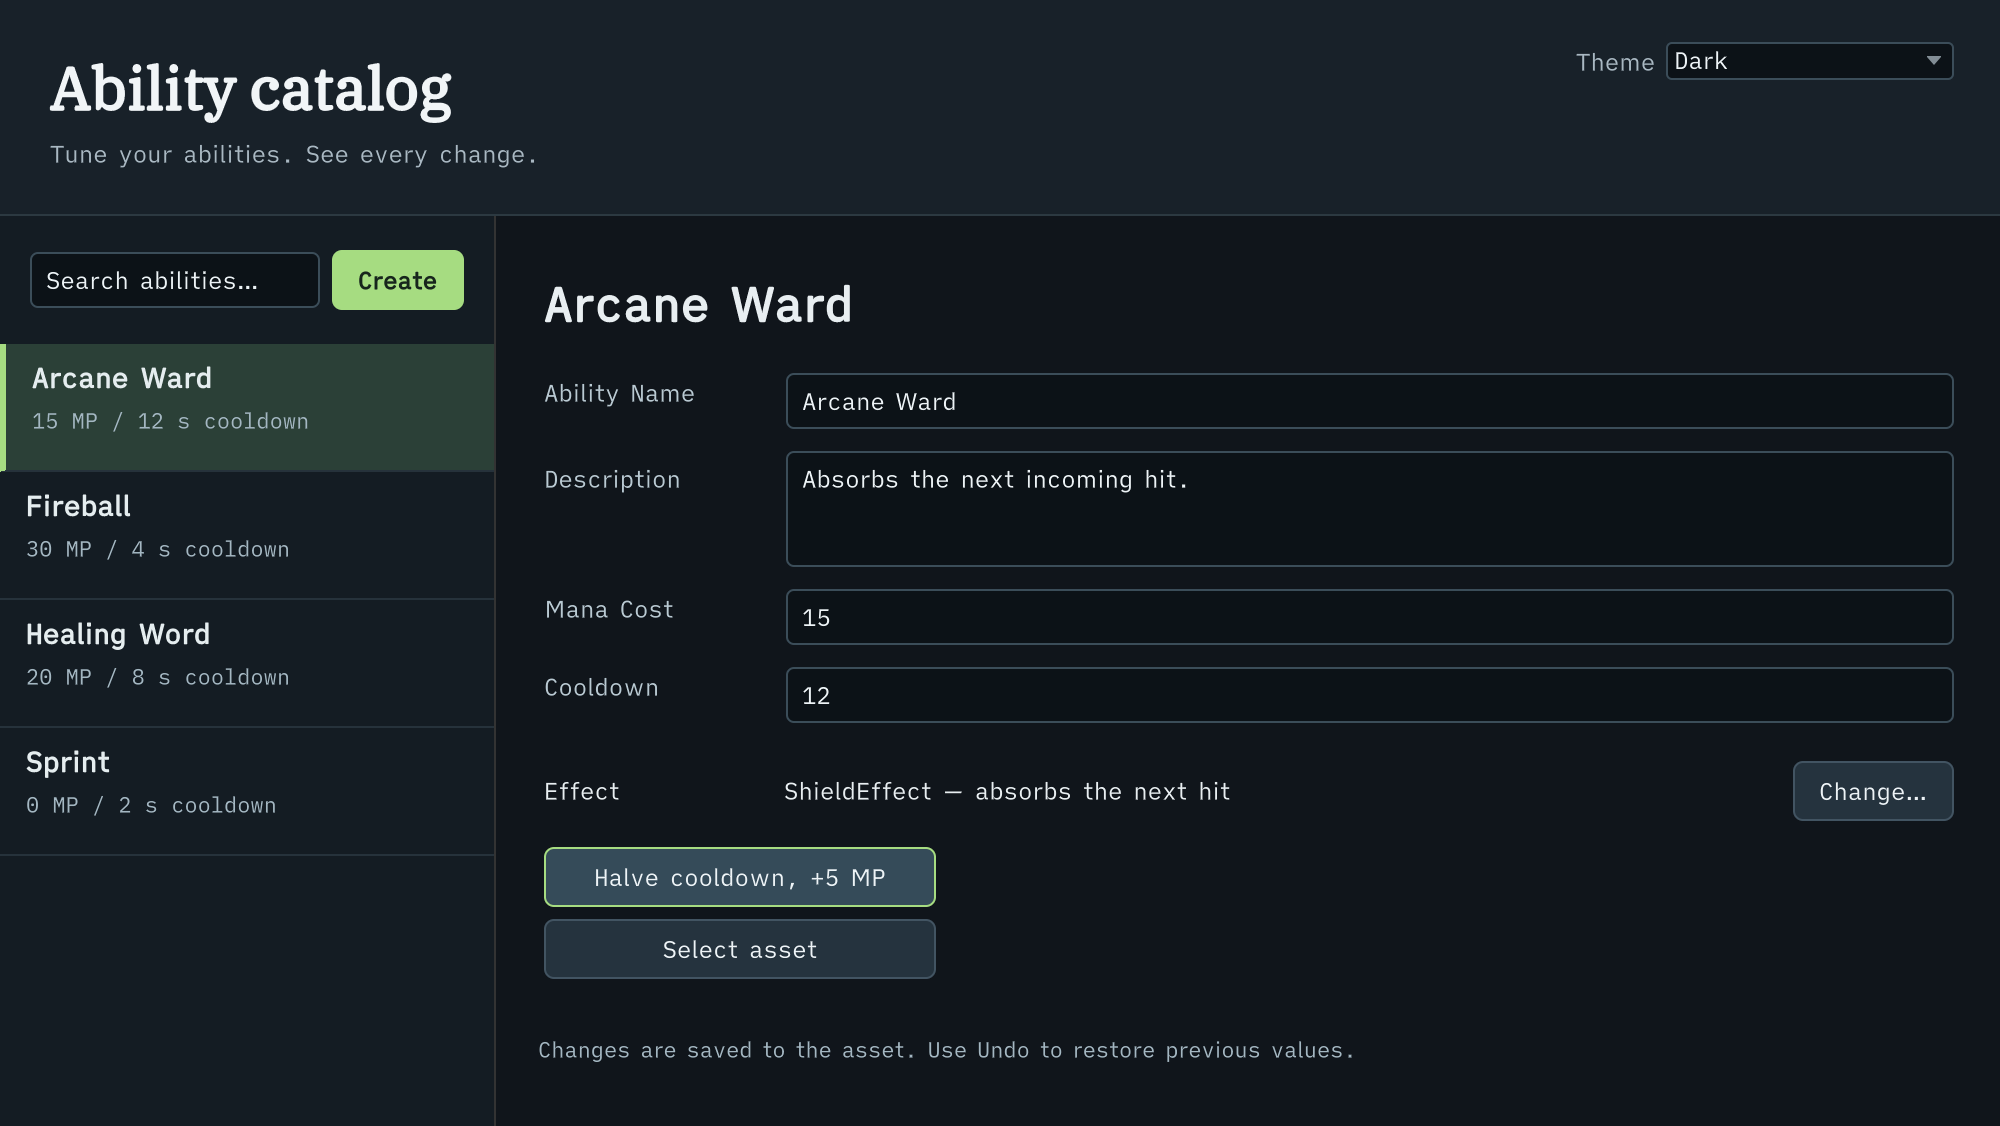
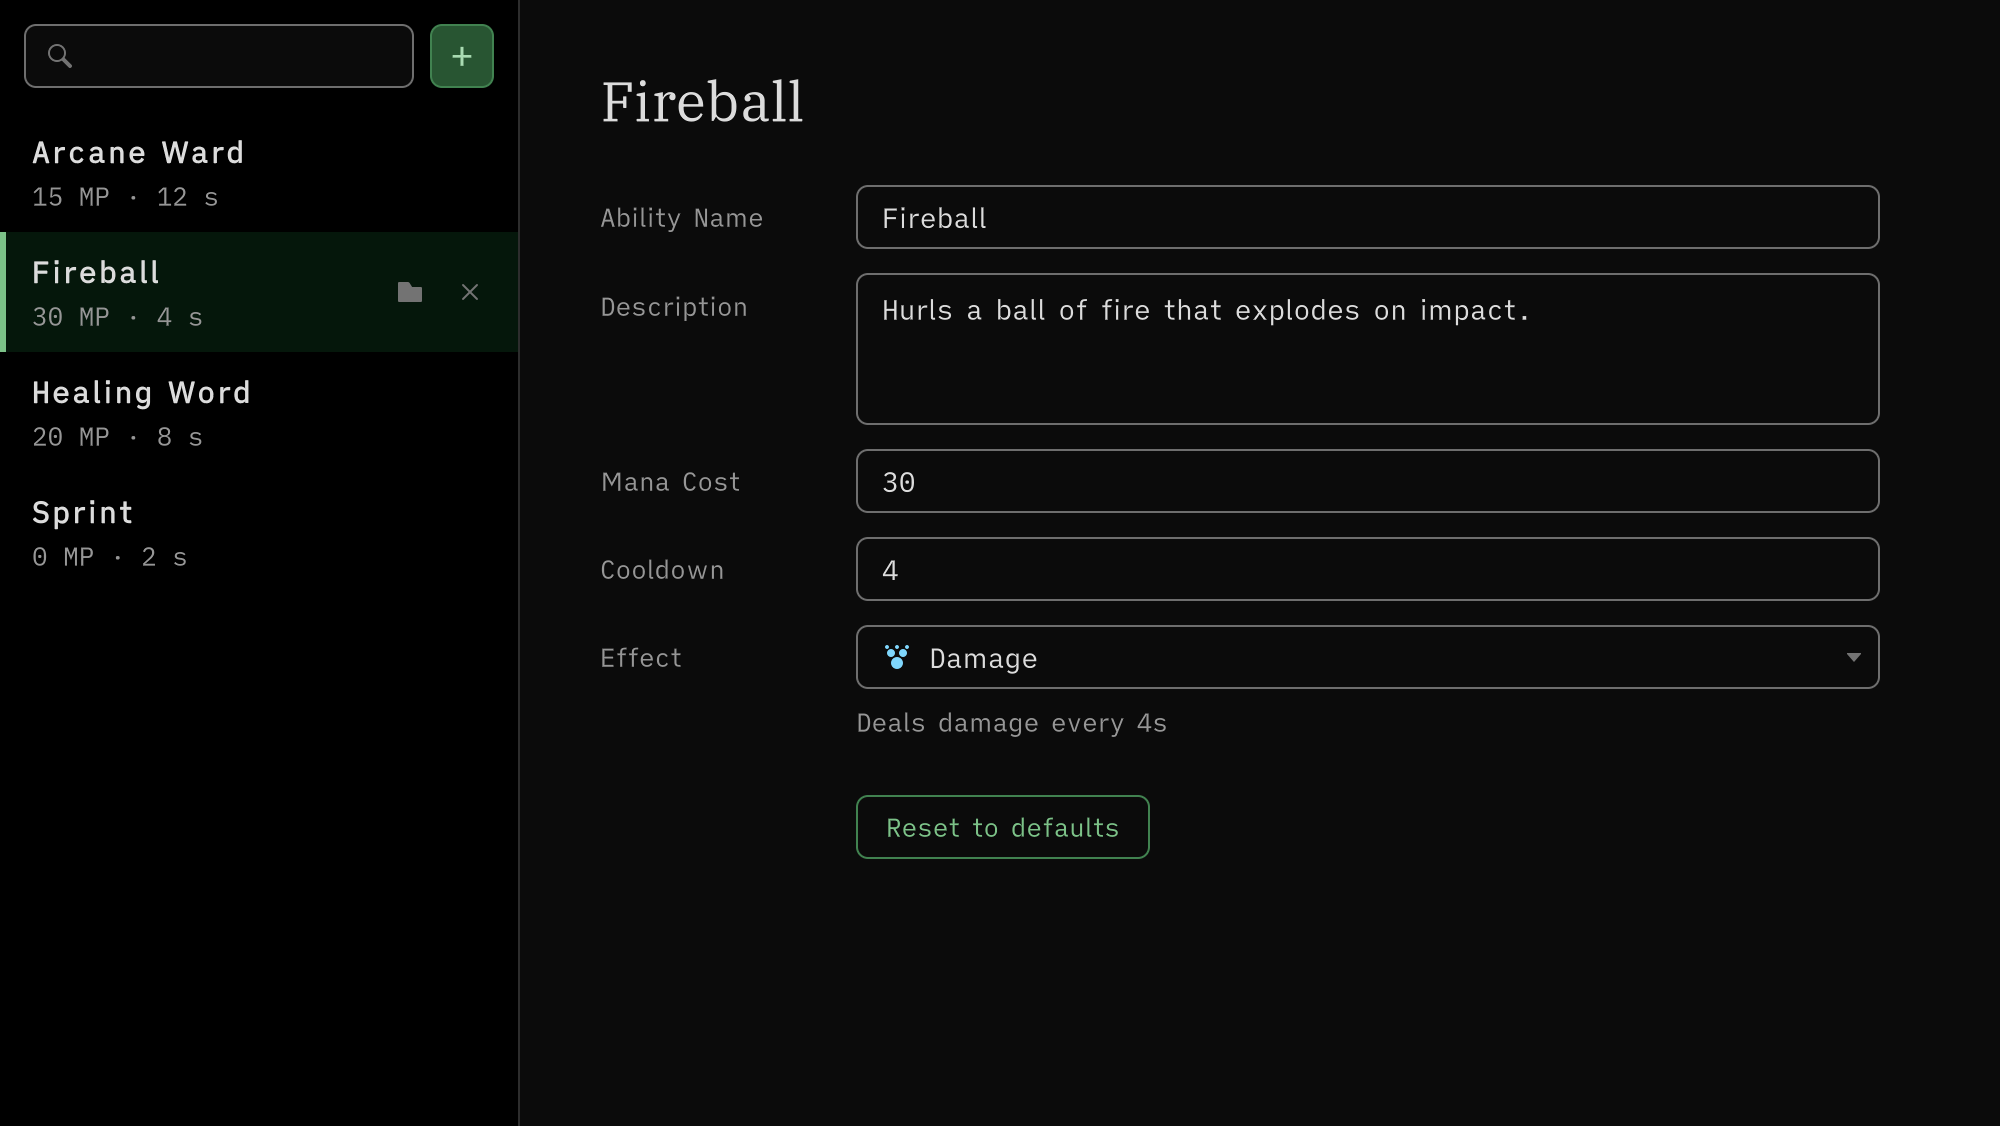
docs(samples): reshoot the Ability Catalog demo and gallery previews
- demo.gif and demo-light.gif show the redesigned window: Reset to defaults on Fireball, the
  button hides, Undo brings 30 MP / 4 s back.
- Gallery previews, the capture grabs, specs, steps and notes follow the new window.

diff --git a/docs/media/sample-themes/other-samples/encode.py b/docs/media/sample-themes/other-samples/encode.py
@@ -12,6 +12,6 @@ for sample,slug,crop in items:
  for theme,gif in themes:
   ff('-i',root/f'{slug}-{theme}.mkv','-filter_complex',f'crop={crop},split[v][p];[p]palettegen=max_colors=256[pal];[v][pal]paletteuse=dither=sierra2_4a','-loop','0',images/gif)
 # The EditorTools GIFs are composed from catalog/<theme>/ with the asp-unity-capture skill (compose.py + encode.sh);
-# the gallery previews are the idle grab with the header, 16:9 at the gallery size.
+# the gallery previews are the idle grab of the whole window, 16:9 at the gallery size.
 for theme,suffix in [('dark',''),('light','-light')]:
  ff('-i',root/'catalog'/theme/'idle.png','-vf','crop=2000:1125:0:0,scale=1440:810:flags=lanczos','-frames:v','1',repo/'Website/static/img/samples'/f'ability-catalog{suffix}.png')

diff --git a/docs/media/sample-themes/other-samples/README.md b/docs/media/sample-themes/other-samples/README.md
@@ -4,7 +4,7 @@ Real Unity 6000.4 camera recordings with the shared Dark and Light previews: the
 
 Camera sources are lossless FFV1, 1440 × 810 at 20 fps, one per theme (`<slug>-dark.mkv`, `<slug>-light.mkv`). They are not in this repository: they live in the private [Aspid.Media.Storage](https://github.com/VPDPersonal/Aspid.Media.Storage/tree/main/FastTools/Docs/sample-themes/other-samples) repository under `FastTools/Docs/sample-themes/other-samples/`. Copy them next to `encode.py` before you run it; Git ignores them here. `record.sh <project> <Sample> <Dark|Light>` records one in a hidden batch-mode Editor (asp-unity-capture skill, `editor.sh open`): `prepare.cs.txt` opens the scene in that theme preview, `record.cs.txt` writes the frames in Play Mode. SerializeReferences and ProfilerMarkers replay identically in every run; the Types Archer has a 12-second lifetime, so record both Types themes back to back. The recording helper hides scene title/footer TextMeshes only during each camera render to keep them outside the cropped gameplay illustration, then restores them immediately. The site gallery's scene previews and clips are built by `docs/media/samples-gallery/scenes.py`. Crops, the same for both themes: Types 1204×680 at (100,116), SerializeReferences 888×532 at (276,178), ProfilerMarkers 800×688 at (320,108). No image recoloring or compositing.
 
-The Ability Catalog states in `catalog/<theme>/` are grabs of the real AbilityCatalogWindow at 2x, 1000 × 563 pt, from a hidden batch-mode Editor, in the window's own Theme → Dark / Light; `catalog.cs.txt` has the steps. The real **Halve cooldown, +5 MP** handler changes Arcane Ward from 15 MP / 12 s to 20 MP / 6 s, and Undo returns 15 / 12 (the undone grab equals `idle.png` byte for byte, so the specs reuse it). `demo.gif` / `demo-light.gif` (2000 × 888, the body under the header) are composed from those states with the skill's `compose.py catalog/<theme>/spec.json <frames>` and `encode.sh <frames> <gif>`: one timeline at 25 fps, with a composited cursor. The gallery previews are the idle grab with the header, scaled to 1440 × 810.
+The Ability Catalog states in `catalog/<theme>/` are grabs of the real AbilityCatalogWindow at 2x, 1000 × 563 pt (2000 × 1126), from a hidden batch-mode Editor with the pristine EditorTools sample (Arcane Ward, Fireball, Healing Word, Sprint), the Default FastTools theme and the dark or light editor skin; `catalog.cs.txt` has the steps. Fireball starts at 30 MP / 4 s, the real **Reset to defaults** handler sets 10 MP / 1 s and hides the button, and Undo returns 30 / 4 with the button (the undone grab equals `idle.png` byte for byte, so the specs reuse it). `demo.gif` / `demo-light.gif` (2000 × 1126, the whole window, 143 frames) are composed from `idle`, `hover` and `after` with the skill's `compose.py catalog/<theme>/spec.json <frames>` and `encode.sh <frames> <gif>`: one timeline at 25 fps with a composited cursor (idle 0.8 s, move onto the button 0.6 s, hover 0.3 s, after the click 1.0 s, move away 0.4 s, hold 0.6 s, undone 2.0 s). To rerun, follow `catalog.cs.txt` for both skins, then compose and encode both specs. The gallery previews are the idle grab, cropped to 2000 × 1125 and scaled to 1440 × 810.
 
 The ProfilerMarkers page's `profiler-markers.png` / `profiler-markers-light.png` (1102 × 242, the column header and the six Flock rows) are 2x grabs of the real Profiler window, CPU module in Hierarchy view, from a hidden batch-mode Editor in the dark and light editor skins; `profiler-hierarchy.cs.txt` has the step, the column widths and the crop. Both skins show the same recorded frame, so even the timings match.
 
